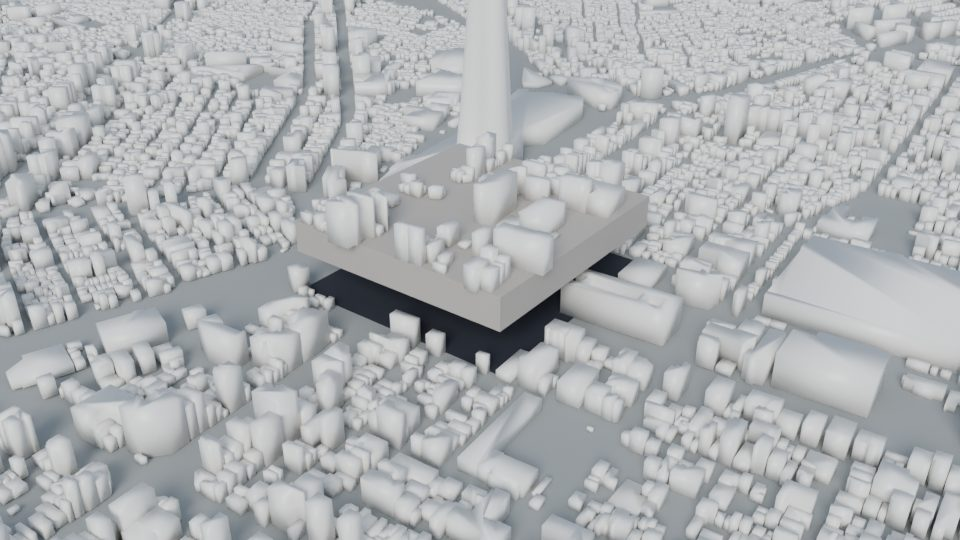
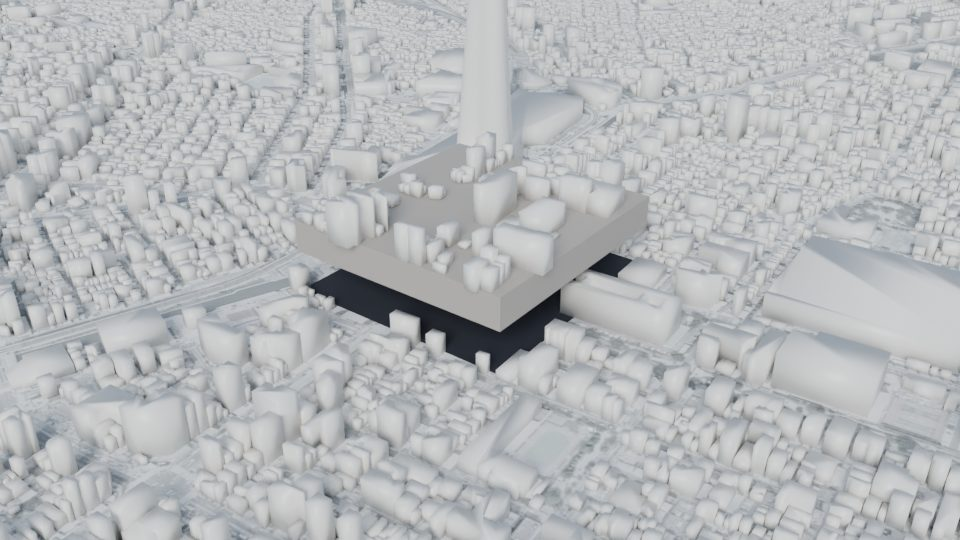
feat: georeferenced GSI basemap for Blender renders; gallery candidate #5
- scripts/make_basemap.py: stitches GSI seamlessphoto tiles in
  EPSG:6677 scene space (anchor-verified; Sumida river aligns with the
  building-free band), pale + edge-faded variants.
- render_lift.py --basemap/--basemap-extent: photo plane at z=0.05,
  under the pit plate top so the hole stays dark.
- EXP-006 v3 (basemap) replaces candidate #4's image; EXP-005 gains the
  Skytree hero as candidate #5 (gold tower + pale basemap).
- assets/basemap/ and output/ gitignored (regenerable).

diff --git a/scripts/make_basemap.py b/scripts/make_basemap.py
@@ -1,0 +1,76 @@
+#!/usr/bin/env python3
+"""CCL — stitch a georeferenced GSI aerial-photo basemap for a Blender scene.
+
+The plateau-tokyo-station scenes are EPSG:6677 meters recentered by a
+constant offset C (scene = 6677 - C). Given C and a scene-coord extent,
+download GSI seamlessphoto tiles, stitch, crop to the exact extent, and
+optionally write a pale (washed) variant plus an edge-faded variant whose
+border blends into a flat color so the sheet sits naturally on the plain
+ground plane. Requires: pyproj, Pillow, numpy.
+
+Skytree scene: C = (-2455.1, -31890.2) (tower anchor lat 35.71006,
+lon 139.81072 verified against the source README), extent -1850 1850 -1550 1550.
+
+Usage:
+  python3 make_basemap.py --cx -2455.1 --cy -31890.2 \
+      --extent -1850 1850 -1550 1550 --zoom 17 --out assets/basemap/skytree.jpg
+Source: 国土地理院タイル (seamlessphoto) — https://maps.gsi.go.jp/development/ichiran.html
+"""
+import argparse, io, math, urllib.request
+from PIL import Image, ImageEnhance
+import numpy as np
+import pyproj
+
+ap = argparse.ArgumentParser()
+ap.add_argument('--cx', type=float, required=True)
+ap.add_argument('--cy', type=float, required=True)
+ap.add_argument('--extent', type=float, nargs=4, required=True, metavar=('XMIN', 'XMAX', 'YMIN', 'YMAX'))
+ap.add_argument('--zoom', type=int, default=17)
+ap.add_argument('--out', required=True)
+ap.add_argument('--pale', action='store_true', help='also write <out>-pale.jpg and <out>-pale-faded.jpg')
+a = ap.parse_args()
+
+inv = pyproj.Transformer.from_crs('EPSG:6677', 'EPSG:4326', always_xy=True)
+xmin, xmax, ymin, ymax = a.extent
+lon_min, lat_min = inv.transform(xmin + a.cx, ymin + a.cy)
+lon_max, lat_max = inv.transform(xmax + a.cx, ymax + a.cy)
+
+def tile_xy(lon, lat, z):
+    n = 2 ** z
+    x = (lon + 180.0) / 360.0 * n
+    r = math.radians(lat)
+    y = (1.0 - math.log(math.tan(r) + 1 / math.cos(r)) / math.pi) / 2.0 * n
+    return x, y
+
+x0f, y1f = tile_xy(lon_min, lat_min, a.zoom)
+x1f, y0f = tile_xy(lon_max, lat_max, a.zoom)
+tx0, tx1, ty0, ty1 = int(x0f), int(x1f), int(y0f), int(y1f)
+canvas = Image.new('RGB', ((tx1 - tx0 + 1) * 256, (ty1 - ty0 + 1) * 256))
+for tx in range(tx0, tx1 + 1):
+    for ty in range(ty0, ty1 + 1):
+        url = f'https://cyberjapandata.gsi.go.jp/xyz/seamlessphoto/{a.zoom}/{tx}/{ty}.jpg'
+        req = urllib.request.Request(url, headers={'User-Agent': 'CCL-research/1.0'})
+        tile = Image.open(io.BytesIO(urllib.request.urlopen(req, timeout=20).read()))
+        canvas.paste(tile, ((tx - tx0) * 256, (ty - ty0) * 256))
+img = canvas.crop((int((x0f - tx0) * 256), int((y0f - ty0) * 256),
+                   int((x1f - tx0) * 256), int((y1f - ty0) * 256)))
+img.save(a.out, quality=88)
+print('CCL: basemap', a.out, img.size)
+
+if a.pale:
+    pale = ImageEnhance.Color(img).enhance(0.22)
+    pale = ImageEnhance.Brightness(pale).enhance(1.28)
+    pale = ImageEnhance.Contrast(pale).enhance(0.82)
+    pout = a.out.replace('.jpg', '-pale.jpg')
+    pale.save(pout, quality=88)
+    arr = np.asarray(pale).astype(np.float32)
+    h, w, _ = arr.shape
+    edge = np.array([203, 208, 213], dtype=np.float32)
+    def ramp(n, f):
+        r = np.ones(n, dtype=np.float32); r[:f] = np.linspace(0, 1, f); r[-f:] = np.linspace(1, 0, f)
+        return r
+    alpha = np.minimum(ramp(w, int(w * 0.07))[None, :, None], ramp(h, int(h * 0.07))[:, None, None]) ** 1.5
+    faded = Image.fromarray((arr * alpha + edge * (1 - alpha)).astype(np.uint8))
+    fout = a.out.replace('.jpg', '-pale-faded.jpg')
+    faded.save(fout, quality=88)
+    print('CCL: pale + faded written')

diff --git a/scripts/blender/render_lift.py b/scripts/blender/render_lift.py
@@ -72,6 +72,27 @@ def add_box(name, loc, scale, mat):
 
 # Slab under the lifted district: top at building base + HEIGHT - small inset
 add_box("CCL_slab", (cx, cy, HEIGHT - SLAB / 2), (sx / 2, sy / 2, SLAB / 2), concrete)
+# Optional basemap: a georeferenced photo plane at z=0.05 (below the pit
+# plate's top at 0.8, so the hole stays dark). Extent = the scene coords the
+# image covers. Skipped in void mode (no ground context by definition).
+BASEMAP = argval("--basemap", None)
+if BASEMAP and not VOID:
+    bi = argv.index("--basemap-extent")
+    BXMIN, BXMAX, BYMIN, BYMAX = (float(argv[bi + k]) for k in range(1, 5))
+    bpy.ops.mesh.primitive_plane_add(location=((BXMIN + BXMAX) / 2, (BYMIN + BYMAX) / 2, 0.05))
+    plane = bpy.context.active_object
+    plane.name = "CCL_basemap"
+    plane.scale = ((BXMAX - BXMIN) / 2, (BYMAX - BYMIN) / 2, 1)
+    bpy.ops.object.transform_apply(scale=True)
+    mm = bpy.data.materials.new(name="CCL_basemap_mat")
+    mm.use_nodes = True
+    tex = mm.node_tree.nodes.new("ShaderNodeTexImage")
+    tex.image = bpy.data.images.load(BASEMAP)
+    mm.node_tree.links.new(tex.outputs["Color"], mm.node_tree.nodes["Principled BSDF"].inputs["Base Color"])
+    mm.node_tree.nodes["Principled BSDF"].inputs["Roughness"].default_value = 0.95
+    plane.data.materials.append(mm)
+    print(f"CCL: basemap {BASEMAP} over x[{BXMIN},{BXMAX}] y[{BYMIN},{BYMAX}]", flush=True)
+
 # Pit plate in the hole (dark, at ground level) — meaningless in void mode.
 if not VOID:
     add_box("CCL_pit", (cx, cy, 0.4), (sx / 2, sy / 2, 0.4), pit_mat)

diff --git a/docs/experiments/EXP-006.md b/docs/experiments/EXP-006.md
@@ -61,3 +61,7 @@ EXP-001 の知見（孤立が効く）と切断を複合。八重洲ブロック
 - 技術: 切断境界はクリーン（交差解消）。ピット（黒）、スラブ側面、浮上体の下面が同時に見える。描画不具合なし。
 - クリエイティブ: **成功条件を満たした**。タワー足元の街区が剥がれて浮いていることが一目で読め、スカイツリーが場所の文脈を与える。**ギャラリー採用候補 #4**（最終判断はユーザー）。
 - 学び: in-context LIFT の要点は (1) 低層で開けた対象、(2) 下面とピットが見える低めのカメラ、(3) ランドマークを背景に残す、の3点。浮上高さは周辺（低層なら55〜70m）との相対で決まる。
+
+## 本実験3 — LIFT v3 ベースマップ版（2026-11-05、Muse評価済み）
+ユーザーの指摘（「ベースマップが表示されていない」）を受け、地理院航空写真を EPSG:6677 ジオレファレンスで stitch（scripts/make_basemap.py、タワー実位置アンカーで照合、隅田川が建物のない帯と一致して検証）し、淡色化して地面に敷いた。render_lift.py に --basemap / --basemap-extent を追加（ピット板の上面 z=0.8 より下の z=0.05 に置くため穴は暗いまま）。
+- v3（領域・カメラは v2 と同一）: 周囲の街路が建物の隙間に見え、実在感が増した。ピットは完全に暗いまま。構図の強さは v2 と同等で、地続き感が上乗せされた版として候補 #4 を v3 に差し替えた。

diff --git a/docs/creative-playbook.md b/docs/creative-playbook.md
@@ -27,3 +27,4 @@
 - CITY LIFTの学び（2026-11-05 EXP-006スパイク）: 切断機構より対象選定と遮蔽が支配的。線路・屋根などの平面部材を切り取ると瓦礫に見える。容積のある市街地ブロックを選び、周囲との相対で浮上高さを決める。密集地では「切り取り+周囲を消す（void）」の複合が本命。
 - 浮上表現の原則（2026-11-05 EXP-006本実験）: 「浮いている」は単体では読めない。下の穴・落ちる影・地肌との対比が必須。周囲を消すと浮上ではなく「標本ジオラマ」になる — それ自体は清潔で魅力的な別フォーマット（CITY SPECIMEN）として成立する。
 - in-context LIFT成立の型（2026-11-05 EXP-006本実験2）: 低層市街地のブロックを、ランドマーク（スカイツリー）の足元で切り取って浮かせる。下面+ピット+スラブ側面が見える低めのカメラが必須。文脈（周囲の街とランドマーク）が「剥がれた」ことの証拠になる。
+- ベースマップの原則（2026-11-05）: 建物だけの白い街は「模型」に寄る。淡色化した実航空写真を地面に敷くと、川と街路が地理の証拠になり実在感が一段上がる。色は主役にしない（彩度を落とし、建物の素材が主役のまま）。位置合わせはランドマーク実座標+河川の帯で検証する。

diff --git a/docs/experiments/EXP-005.md b/docs/experiments/EXP-005.md
@@ -15,3 +15,6 @@
 ## 次
 - 「白い都市、金のランドマーク」シリーズとして3地点目を検討（スカイツリー周辺は PLATEAU にタワー自体が無いため自作タワーの扱いが論点）。
 - 前景の小断片は領域の y 下限調整で除去可能（次回レンダ時に検証）。
+
+## 追補 — スカイツリー（ヒーロー3作目）+ ベースマップ導入（2026-11-05、Muse評価済み）
+per-object シーンのためタワー3オブジェクト（Skytree_procedural/Deck350/Deck450）に金、BLD 全体に磁器を適用。タワーが細身のため金の量は少なく、駅舎・都庁より「線の金」として効く。ベースマップ（地理院航空写真、淡色版）を敷いた版を候補とした（候補 #5）。ベースマップは今後 Blender 描画の標準装備とする。
